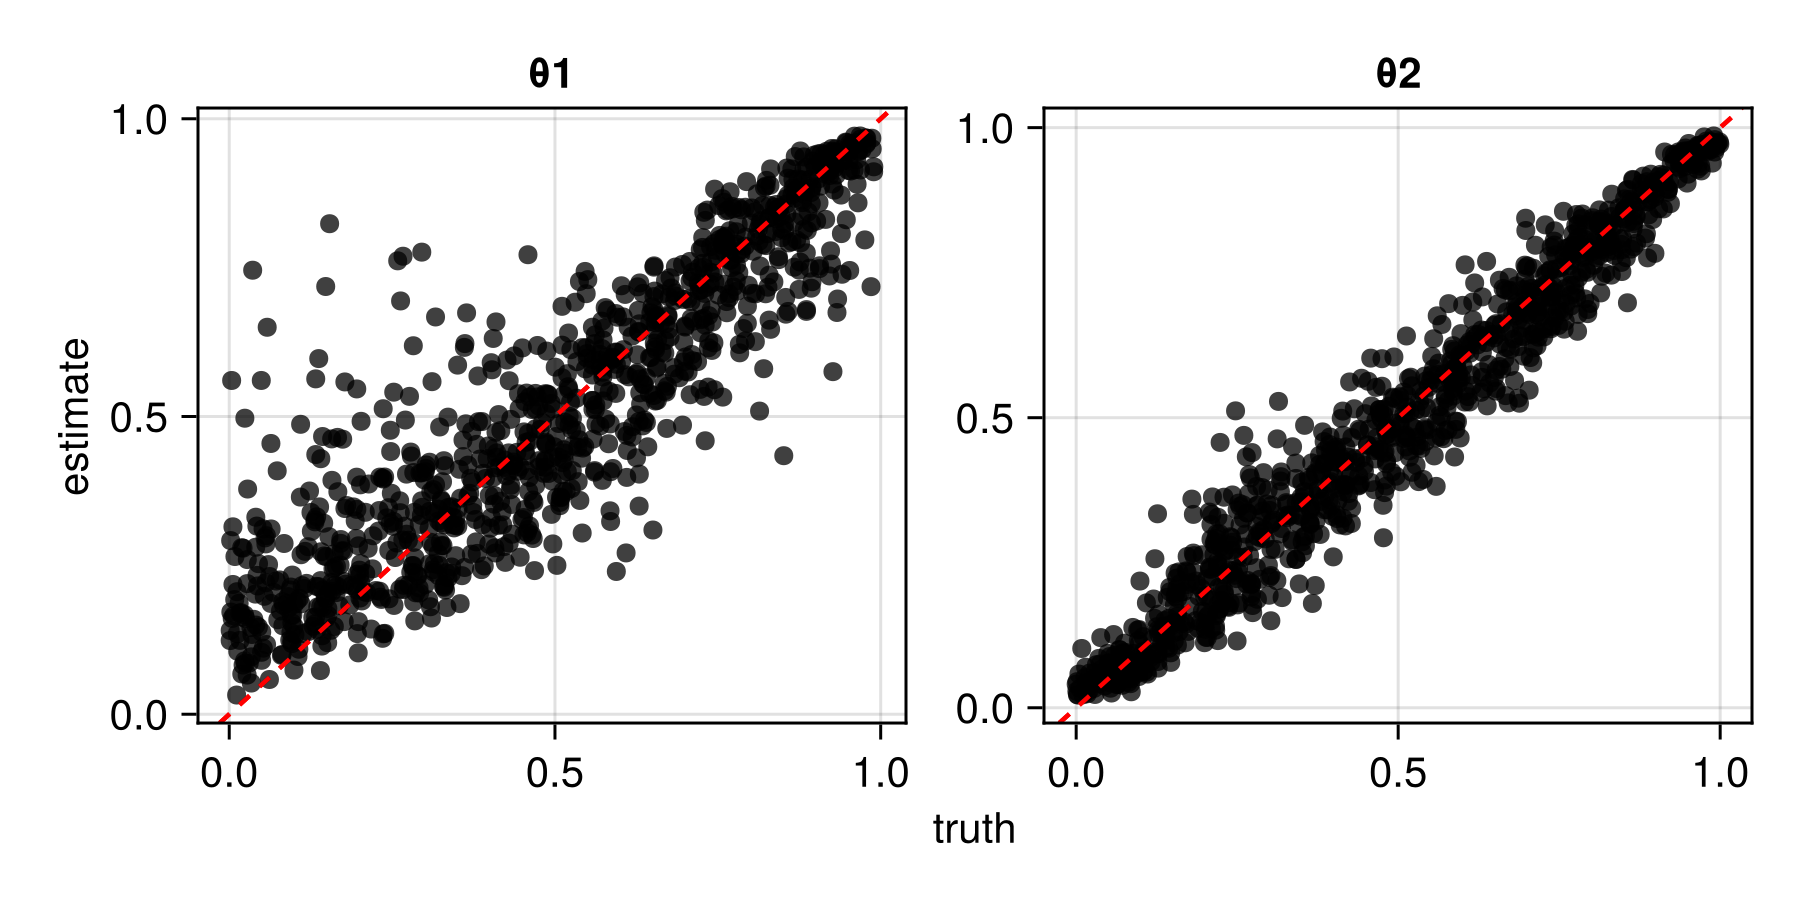
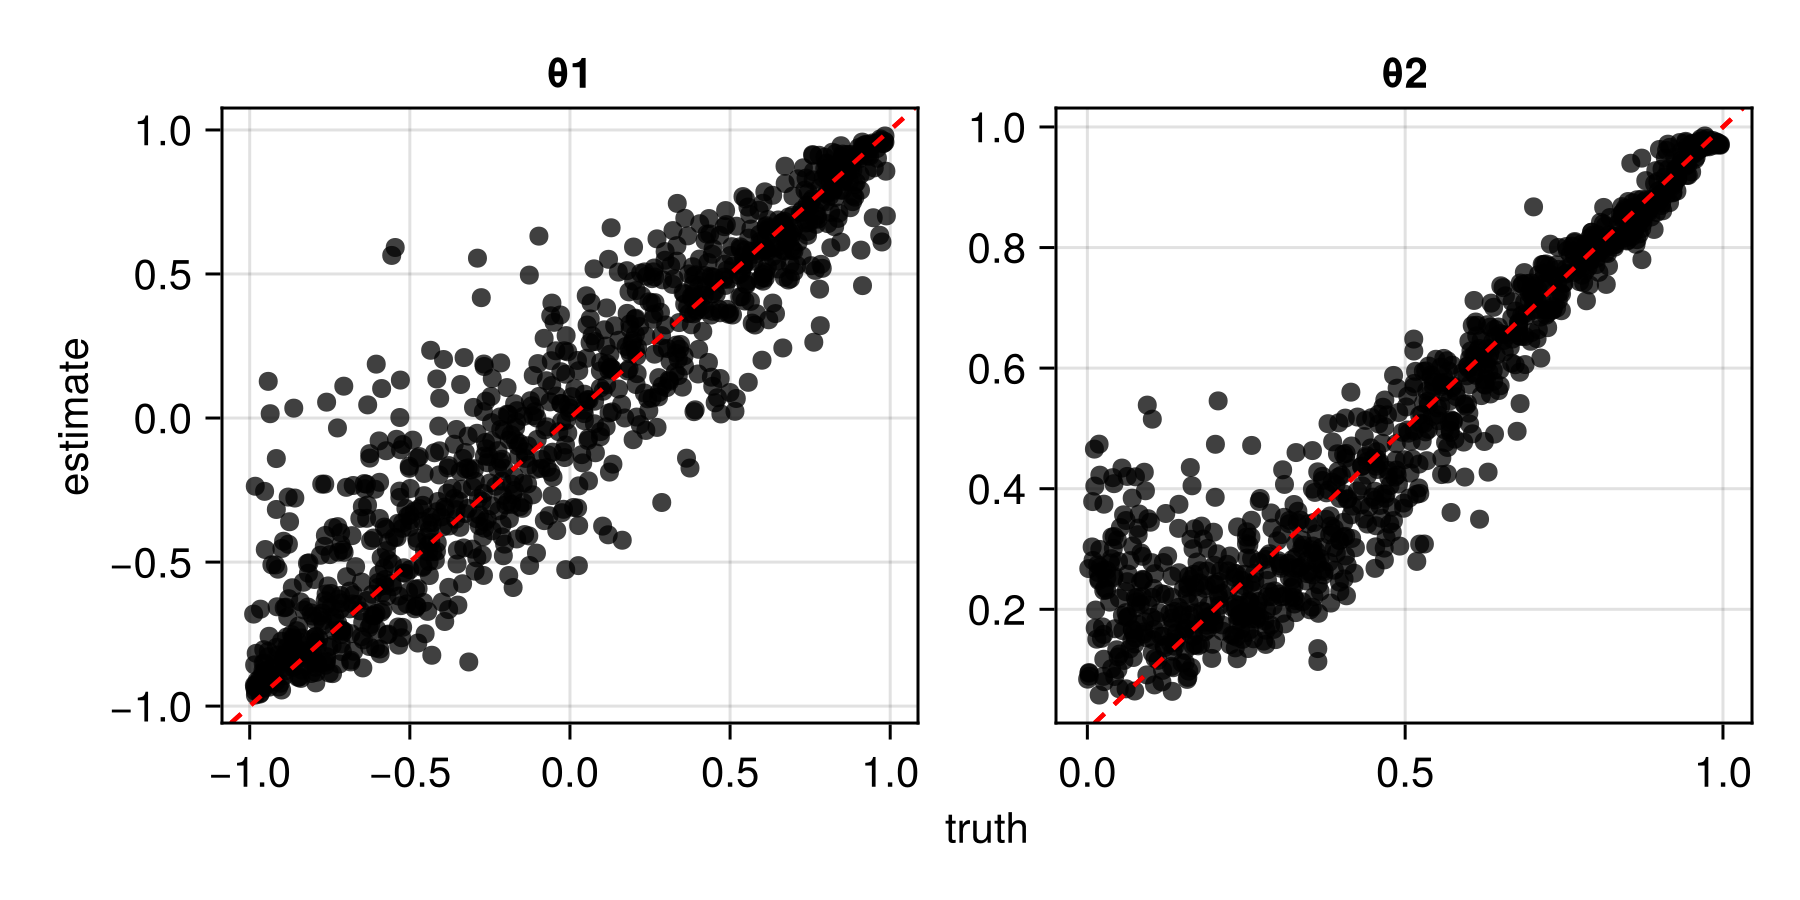
Updated censoring vignette

diff --git a/docs/src/workflow/advancedusage.md b/docs/src/workflow/advancedusage.md
@@ -387,19 +387,19 @@ Neural estimators can be constructed to handle censored data as input, by exploi
 
 [Richards et al. (2024)](https://jmlr.org/papers/v25/23-1134.html) discuss neural Bayes estimation from censored data in the context of peaks-over-threshold extremal dependence modelling, where deliberate censoring of data is imposed to reduce estimation bias in the presence of marginally non-extreme events. For peaks-over-threshold models, observed data are treated as censored if they do not exceed their corresponding marginal $\tau$-quantile, for $\tau \in (0,1)$ close to one. We present two approaches to censoring data: a [General setting](@ref), where users specifiy their own deterministic "censoring scheme", and [Peaks-over-threshold modelling](@ref), where users supply a single (censoring) quantile level $\tau$, which can be treated as random and/or feature as an input to the neural network.
 
-As a running example, we consider a bivariate random scale Gaussian mixture; see [Engelke, Opitz, and Wadsworth (2019)](https://link.springer.com/article/10.1007/s10687-019-00353-3) and [Huser and Wadsworth (2019)](https://www.tandfonline.com/doi/full/10.1080/01621459.2017.1411813). We consider the task of estimating $\boldsymbol{\theta}=(\rho,\delta)'$, for correlation parameter $\rho \in (-1,1)$ and shape parameter $\delta \in [0,1]$. Data $\boldsymbol{Z}_1,\dots,\boldsymbol{Z}_m$ are independent and identically distributed according to the random scale construction
+As a running example, we consider a bivariate random scale Gaussian mixture copula; see [Engelke, Opitz, and Wadsworth (2019)](https://link.springer.com/article/10.1007/s10687-019-00353-3) and [Huser and Wadsworth (2019)](https://www.tandfonline.com/doi/full/10.1080/01621459.2017.1411813). We consider the task of estimating $\boldsymbol{\theta}=(\rho,\delta)'$, for correlation parameter $\rho \in (-1,1)$ and shape parameter $\delta \in [0,1]$. Variables $\boldsymbol{Y}_1,\dots,\boldsymbol{Y}_m$ are independent and identically distributed according to the random scale construction
 ```math
-\boldsymbol{Z}_i = \delta R_i + (1-\delta)  \boldsymbol{X}_i,
+\boldsymbol{Y}_i = \delta R_i + (1-\delta)  \boldsymbol{X}_i,
 ```
-where $R_i \sim \text{Exp}(1)$ and $\boldsymbol{X}_i$ is a bivariate random vector following a Gaussian copula with correlation $\rho$ and unit exponential margins. We note that the vector $\boldsymbol{Z}_i$ does not itself have unit exponential margins; instead, its marginal distribution function, $F(z;\delta),$ is dependent on $\delta$; this has a closed form expression, see [Huser and Wadsworth (2019)](https://www.tandfonline.com/doi/full/10.1080/01621459.2017.1411813).
+where $R_i \sim \text{Exp}(1)$ and $\boldsymbol{X}_i$ is a bivariate random vector following a Gaussian copula with correlation $\rho$ and unit exponential margins. We note that the vector $\boldsymbol{Y}_i$ does not itself have unit exponential margins. Instead, its marginal distribution function, $F(y;\delta),$ is dependent on $\delta$; this has a closed form expression, see [Huser and Wadsworth (2019)](https://www.tandfonline.com/doi/full/10.1080/01621459.2017.1411813). In practice, the parameter $\delta$ is unknown, and so the random scale construction is treated as a copula and fitted to standardised uniform data. That is, the data used for inference are $\boldsymbol{Z}_i = F(\boldsymbol{Y}_i; \delta),$ which have been transformed to a uniform scale via the $\delta$-dependent marginal dsitribution function.   
 
-Simulation of the random scale mixture and its marginal ditribution function are provided below.
+Simulation of the random scale mixture (on uniform margins) and its marginal ditribution function are provided below. To increase training efficiency, we apply a transformation of the input data to exponential margins.
 ```julia
 # Libraries used throughout this example
 using NeuralEstimators, Flux
 using Folds
 using LinearAlgebra: Symmetric, cholesky
-using Distributions: cdf, Uniform, Normal
+using Distributions: cdf, Uniform, Normal, quantile
 using AlgebraOfGraphics, CairoMakie   
 
 # Sampling θ from the prior distribution
@@ -417,21 +417,22 @@ function simulate(θ, m)
 		Σ = [1 ρ; ρ 1]
 		L = cholesky(Symmetric(Σ)).L
 		X = L * randn(2, m)                 # Standard Gaussian margins
-		X = cdf.(Normal(), X)               # Transform to uniform margins
-		X = -log.(1 .- X)                   # Transform to unit exponential margins
+		X = -log.(1 .- cdf.(Normal(), X))   # Transform to unit exponential margins
 		R = -log.(1 .- rand(1, m))         
-		z = δ .* R .+ (1 - δ) .* X
-		z
+		Y = δ .* R .+ (1 - δ) .* X          # Transform to uniform margins
+        Z = F.(Y; δ = δ)
+		Z = -log.(1 .- Z)                   # Transform to exponential margins
+
 	end
 	return Z
 end
 
 # Marginal distribution function; see Huser and Wadsworth (2019)
-function F(z; δ)
+function F(y; δ)
 	if δ == 0.5 
-        u = 1 .- exp.(- 2 .* z) .* (1 .+ 2 .* z) 
+        u = 1 .- exp.(- 2 .* y) .* (1 .+ 2 .* y) 
     else 
-        u = 1 .- (δ ./ (2 .* δ .- 1)) .* exp.(- z ./ δ) .+ ((1 .- δ) ./ (2 * δ .- 1)) .* exp.( - z ./ (1 - δ)) 
+        u = 1 .- (δ ./ (2 .* δ .- 1)) .* exp.(- y ./ δ) .+ ((1 .- δ) ./ (2 * δ .- 1)) .* exp.( - y ./ (1 - δ)) 
     end
 	return u
 end
@@ -459,7 +460,7 @@ function censorandaugment(z; c, ζ = 0)
 end
 ```
 
-Censoring is performed during training. To ensure this, we use `censorandaugment()` within the simulation function:
+Censoring is performed during training. To ensure this, we use `censorandaugment()` within the simulation function; we illustrate its usage below.
 
 ```julia
 # Marginal simulation of censored data
@@ -471,11 +472,11 @@ function simulatecensored(θ, m; c, ζ)
 	return A
 end
 
-# Generate censored data, with values below 0.5 censored and set to ζ = -1.
+# Generate censored data, with values below 0.4 censored and set to ζ = -1.
 
-# Note that these data are simulated for illustration purposes. 
+# Note that these data are simulated for illustration purposes only. 
 K = 1000       # number of training samples
-c = [0.5, 0.5] # censoring thresholds
+c = [0.4, 0.4] # censoring thresholds
 m = 200        # number of independent replicates in each data set
 θ_train = sample(K)
 Z_train = simulatecensored(θ_train, m; c = c, ζ = -1.0)
@@ -487,8 +488,12 @@ To construct a point estimator which can accomodate the augmented dataset, we en
 d = 2   # dimension of θ
 w = 128  # width of each hidden layer
 
-# DeepSet neural network, with the final layer of ϕ enforcing ρ, δ ∈ (0,1)
-final_layer = Dense(w, d, sigmoid)      
+# DeepSet neural network, with the final layer of ϕ enforcing ρ ∈ [-1,1], δ ∈ (0,1)
+final_layer = Parallel(
+    vcat,
+    Dense(w, 1, tanh),     # ρ ∈ [-1,1]
+    Dense(w, 1, sigmoid)      # δ ∈ (0,1)
+)
 ψ = Chain(Dense(d * 2, w, relu), Dense(w, w, relu))    
 ϕ = Chain(Dense(w, w, relu), final_layer)           
 network = DeepSet(ψ, ϕ)
@@ -497,7 +502,7 @@ network = DeepSet(ψ, ϕ)
 θ̂_cNBE = PointEstimator(network)
 ```
 
-We now train and test two estimators for censored data; one with `c = [0, 0]` and one with `c = [0.5, 0.5]`, which correspond to no and mild censoring, respectively. We assess the estimators using the same test data. As expected, the neural estimator designed for non-censored data has lower sampling uncertainty, as the data it uses are more informative.
+We now train and test two estimators for censored data; one with `c = [0, 0]` and one with `c = [0.4, 0.4]`, which correspond to no and mild censoring, respectively. We assess the estimators using the same test data. As expected, the neural estimator designed for non-censored data has lower sampling uncertainty, as the data it uses are more informative.
 
 
 ```julia
@@ -511,9 +516,9 @@ Z_test1 = simulatecensored(θ_test, m; c = [0, 0], ζ = -1.0)
 assessment1 = assess(θ̂_cNBE1, θ_test, Z_test1)   
 
 # With mild censoring
-simulator(θ, m) = simulatecensored(θ, m; c = [0.5, 0.5], ζ = -1.0) 
+simulator(θ, m) = simulatecensored(θ, m; c = [0.4, 0.4], ζ = -1.0) 
 θ̂_cNBE2 = train(θ̂_cNBE, sample, simulator, m = m)
-Z_test2 = simulatecensored(θ_test, m; c = [0.5, 0.5], ζ = -1.0) 
+Z_test2 = simulatecensored(θ_test, m; c = [0.4, 0.4], ζ = -1.0) 
 assessment2 = assess(θ̂_cNBE2, θ_test, Z_test2)   
 
 plot(assessment1)
@@ -527,16 +532,14 @@ Note that the estimators are not amortised with respect to the censoring scheme,
 
 ### Peaks-over-threshold modelling
 
-For peak-over-threshold modelling, the data censoring mechanism is determined by a user-specified quantile level $\tau$, which is typically taken to be close to one. During inference, deliberate censoring is imposed: data that do not exceed their marginal $\tau$-quantile are treated as left censored. For the running example, we censor components of $\boldsymbol{Z}_i$ below the $\tau$-quantile of the marginal distribution of the random scale mixture, i.e., $F^{-1}(\tau; \delta)$.
+For peak-over-threshold modelling, the data censoring mechanism is determined by a user-specified quantile level $\tau$, which is typically taken to be close to one. During inference, deliberate censoring is imposed: data that do not exceed their marginal $\tau$-quantile are treated as left censored. For the running example, we censor components of $\boldsymbol{Z}_i$ below the $\tau$-quantile of the marginal distribution of the random scale mixture; in this case, as $\boldsymbol{Z}_i$ has uniform margins, the $\tau$-quantile is equal to $\tau$.
 
-Peaks-over-threshold modelling, with $\tau$ fixed, can be easily implemented by adapting the `censorandaugment()` function in [General setting](@ref), i.e., by imposing that `c` is an evaluation of $F^{-1}(\tau; \delta)$. However, [Richards et al. (2024)](https://jmlr.org/papers/v25/23-1134.html) show that one can amortise a point estimator with respect to the choice of $\tau$, by treating $\tau$ as random and allowing it to feature as an input into the outer neural network, $\boldsymbol{\phi}$, of the [`DeepSet`](@ref) architecture. Note that, in this setting, the estimator cannot be trained via `simulation-on-the-fly`, and a finite number of $K$ data/parameter pairs must be sampled prior to training.
-
-We also follow [Richards et al. (2024)](https://jmlr.org/papers/v25/23-1134.html) and consider inference for data on standardised margins; we pre-standardise data $\boldsymbol{Z}$ to have unit exponential margins, rather than $\delta$-dependent margins. This can help to improve the numerical stability of estimator training, as well as increasing training efficiency.
+Peaks-over-threshold modelling, with $\tau$ fixed, can be easily implemented by adapting the `censorandaugment()` function in [General setting](@ref), i.e., by imposing that `c` is equal to the $\tau$-th quantile of the data $\boldsymbol{Z}$ (in this case, we set `c` equal to $\tau$). However, [Richards et al. (2024)](https://jmlr.org/papers/v25/23-1134.html) show that one can amortise a point estimator with respect to the choice of $\tau$, by treating $\tau$ as random and allowing it to feature as an input into the outer neural network, $\boldsymbol{\phi}$, of the [`DeepSet`](@ref) architecture. Note that, in this setting, there is currently no functionality available in the package to train the estimator via `simulation-on-the-fly`; instead, a finite number of $K$ data/parameter pairs must be sampled prior to training.
 
 ```julia
 # Sampling τ from its prior
 function sampleτ(K)
-	τ = rand(Uniform(0.7, 0.9), 1, K) 
+	τ = rand(Uniform(0.5, 0.9), 1, K) 
     return τ
 end
 
@@ -551,14 +554,10 @@ function simulatecensored(θ, τ, m;  ζ)
         τₖ = τ[k]
 		δₖ = θ[2, k]
 
-        # Transform to Uniform margins.
-        Z̃ₖ = F.(Zₖ; δ = δₖ)
-
-        Z̃ₖ = - log.(1 .- Z̃ₖ) # Unit exponential margins; H^-1(.) in Richards et al., 2024
-        cₖ = - log(1 - τₖ) # Evaluate censoring quantile on exponential scale
-
+		cₖ = -log(1 - τₖ) # As the data is on exponential margins, we set c as the τₖ-quantile of the exponential distribution
         # Censor data and create augmented datasest
-        A =  mapslices(Z -> censorandaugment(Z, c = cₖ, ζ = ζ), Z̃ₖ, dims = 1)
+        A =  mapslices(Z -> censorandaugment(Z, c = cₖ, ζ = ζ), Zₖ, dims = 1)
+
         A 
 
 	end
@@ -568,21 +567,21 @@ end
 
 # Generate the data used for training and validation
 K = 10000   # number of training samples
-m = 1000    # number of independent replicates in each data set
+m = 500        # number of independent replicates in each data set
 θ_train  = sample(K)
-θ_val    = sample(K)
+θ_val    = sample(K ÷ 5)
 τ_train  = sampleτ(K)
-τ_val    = sampleτ(K)
+τ_val    = sampleτ(K ÷ 5)
 Z_train  = simulatecensored(θ_train, τ_train, m;  ζ = -1.0)
 Z_val    = simulatecensored(θ_val, τ_val, m;  ζ = -1.0)
 ```
 
-As $\tau$ is now an input into the outer neural network of the DeepSet estimator, we must increase the input dimension of $\boldsymbol{\phi}$ (by one) when designing the neural estimator architecture. Below, we construct and train such an estimator.
+As $\tau$ is now an input into the outer neural network of the [`DeepSet`](@ref) estimator, we must increase the input dimension of $\boldsymbol{\phi}$ (by one) when designing the neural estimator architecture. Below, we construct and train such an estimator.
 
 ```julia
 # Construct DeepSet neural network
 ψ = Chain(Dense(d * 2, w, relu), Dense(w, w, relu))    
-ϕ = Chain(Dense(w + 1, w, relu), Dense(w, d, sigmoid))
+ϕ = Chain(Dense(w + 1, w, relu), final_layer)
 network = DeepSet(ψ, ϕ)
 
 # Initialise estimator
@@ -592,24 +591,24 @@ network = DeepSet(ψ, ϕ)
 θ̂_τ = train(θ̂_τ, θ_train, θ_val, (Z_train, τ_train), (Z_val, τ_val))
 ```
 
-We use our trained estimator for any specified and fixed value of $\tau$ within the support of its prior (in this case, [0.7,0.9]). Our trained estimator is amortised with respect to $\tau$; we do not need to retrain the estimator for different degrees of censoring.
+We use our trained estimator for any specified and fixed value of $\tau$ within the support of its prior (in this case, [0.5,0.9]). Our trained estimator is amortised with respect to $\tau$; we do not need to retrain the estimator for different degrees of censoring.
 
 We can assess the estimator for different values of $\tau$, corresponding to different amounts of censoring (larger $\tau$ corresponds to more censoring). As expected, estimation from data with less censoring (lower $\tau$) suffers from lower uncertainty.
 ```julia
-# assessment with τ fixed to 0.75
-τ_test =  repeat([0.75], 1000)'
+# assessment with τ fixed to 0.5
+τ_test =  repeat([0.5], 1000)'
 Z_test = simulatecensored(θ_test, τ_test, m;  ζ = -1.0)
 
 assessment_tau1 = assess(θ̂_τ, θ_test, (Z_test, τ_test))    
 plot(assessment_tau1)
 
-# assessment with τ fixed to 0.9. Note that we do not retrain the estimator.
-τ_test =  repeat([0.9], 1000)'
+# assessment with τ fixed to 0.8. Note that we do not retrain the estimator.
+τ_test =  repeat([0.8], 1000)'
 Z_test = simulatecensored(θ_test, τ_test, m;  ζ = -1.0)
                         
 assessment_tau2 = assess(θ̂_τ, θ_test, (Z_test, τ_test))    
 plot(assessment_tau2)
 ```
 
-![Assessment with τ fixed to 0.75](../assets/figures/censoring3.png)
-![Assessment with τ fixed to 0.9](../assets/figures/censoring4.png)
+![Assessment with τ fixed to 0.5](../assets/figures/censoring3.png)
+![Assessment with τ fixed to 0.8](../assets/figures/censoring4.png)
